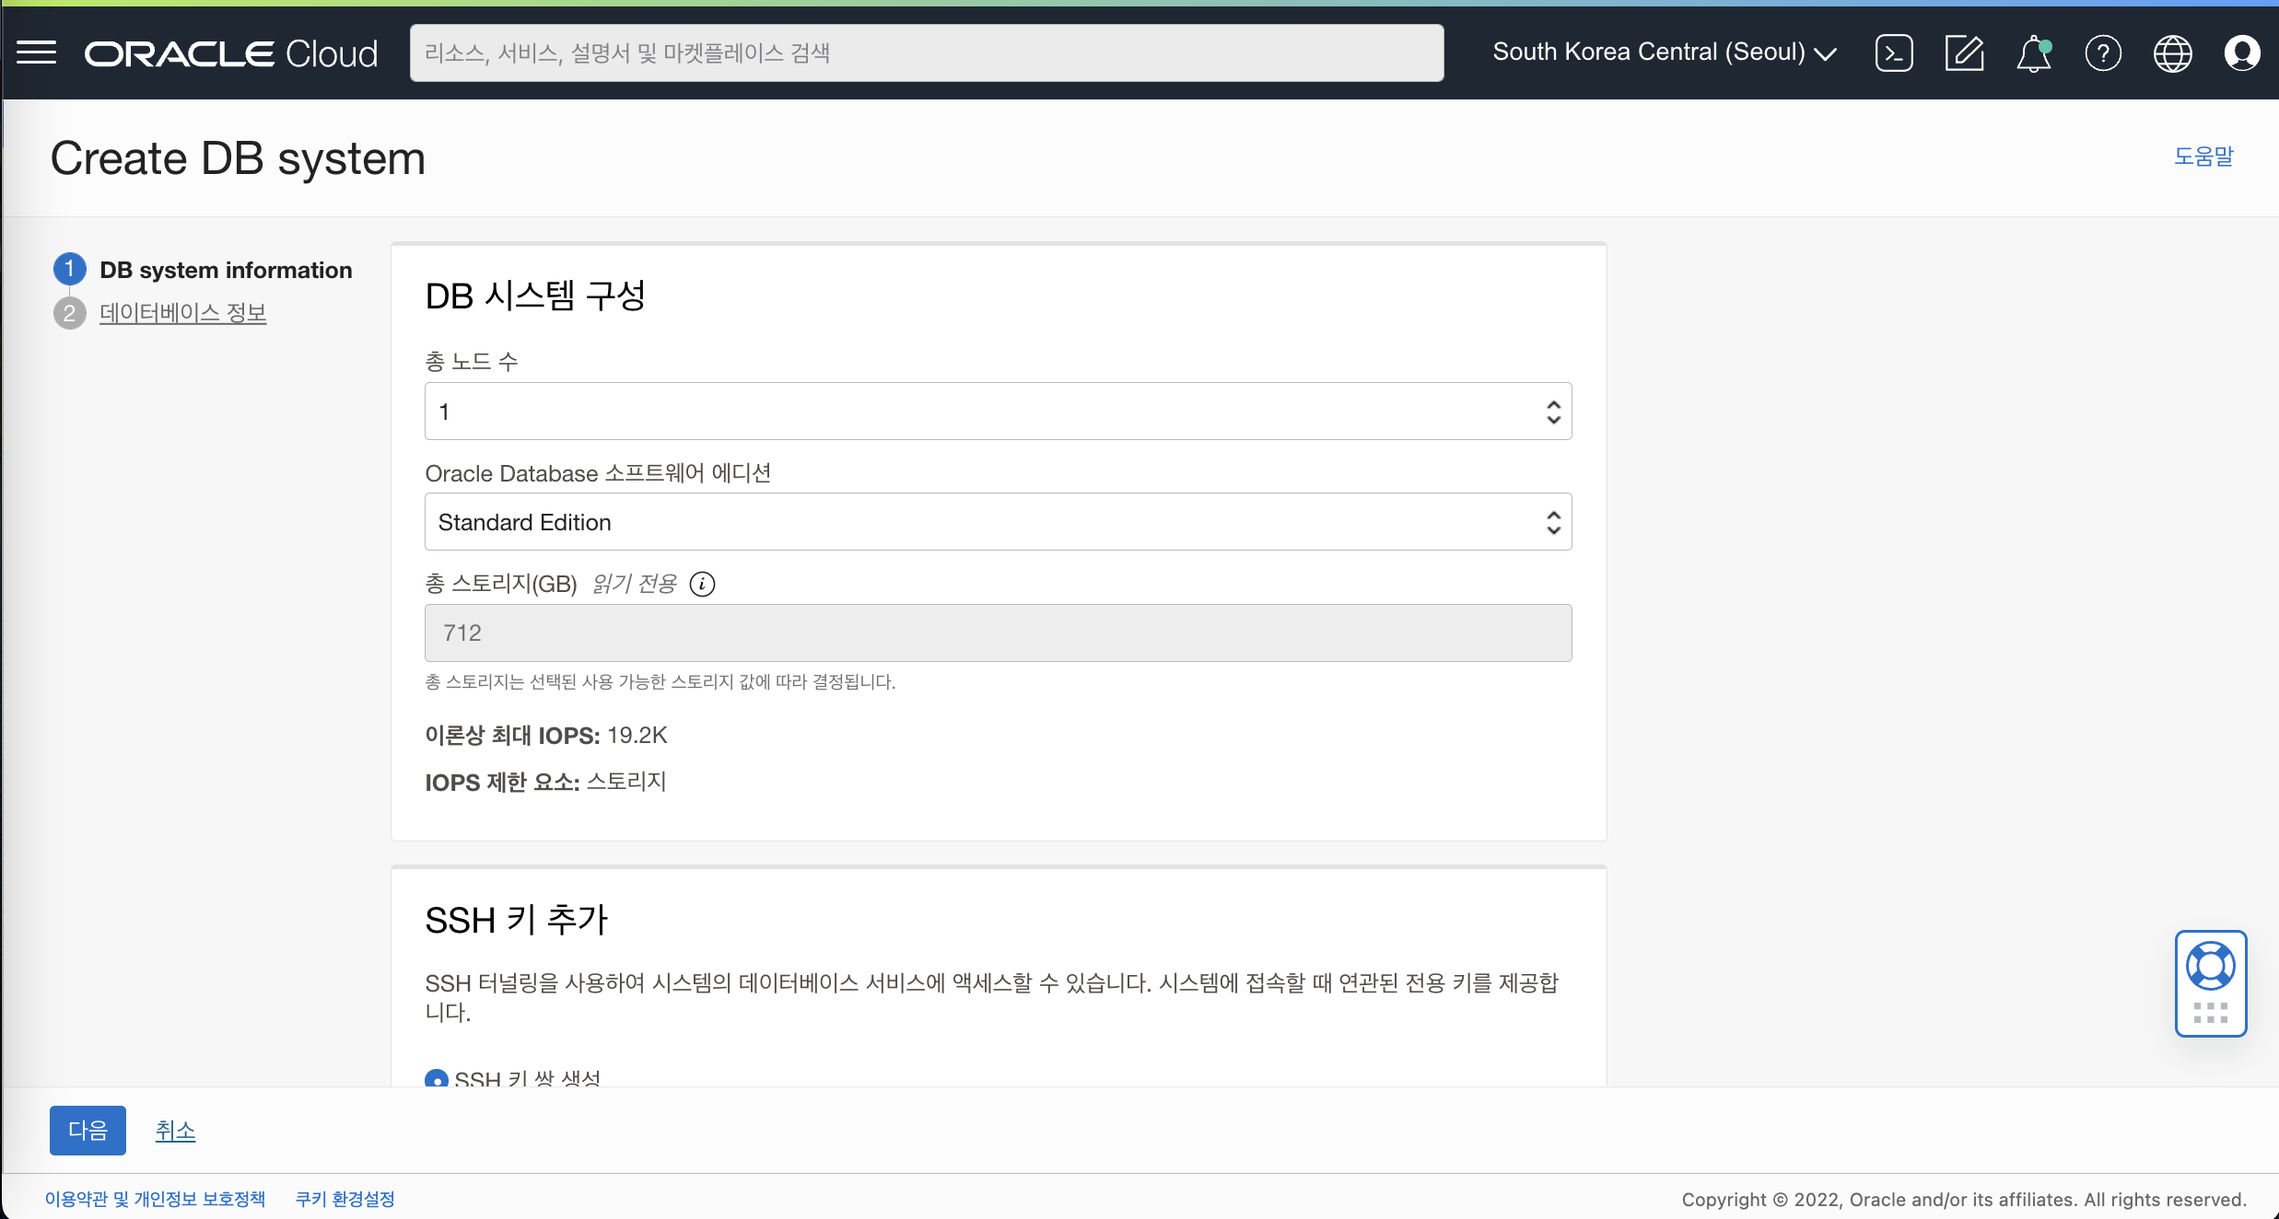
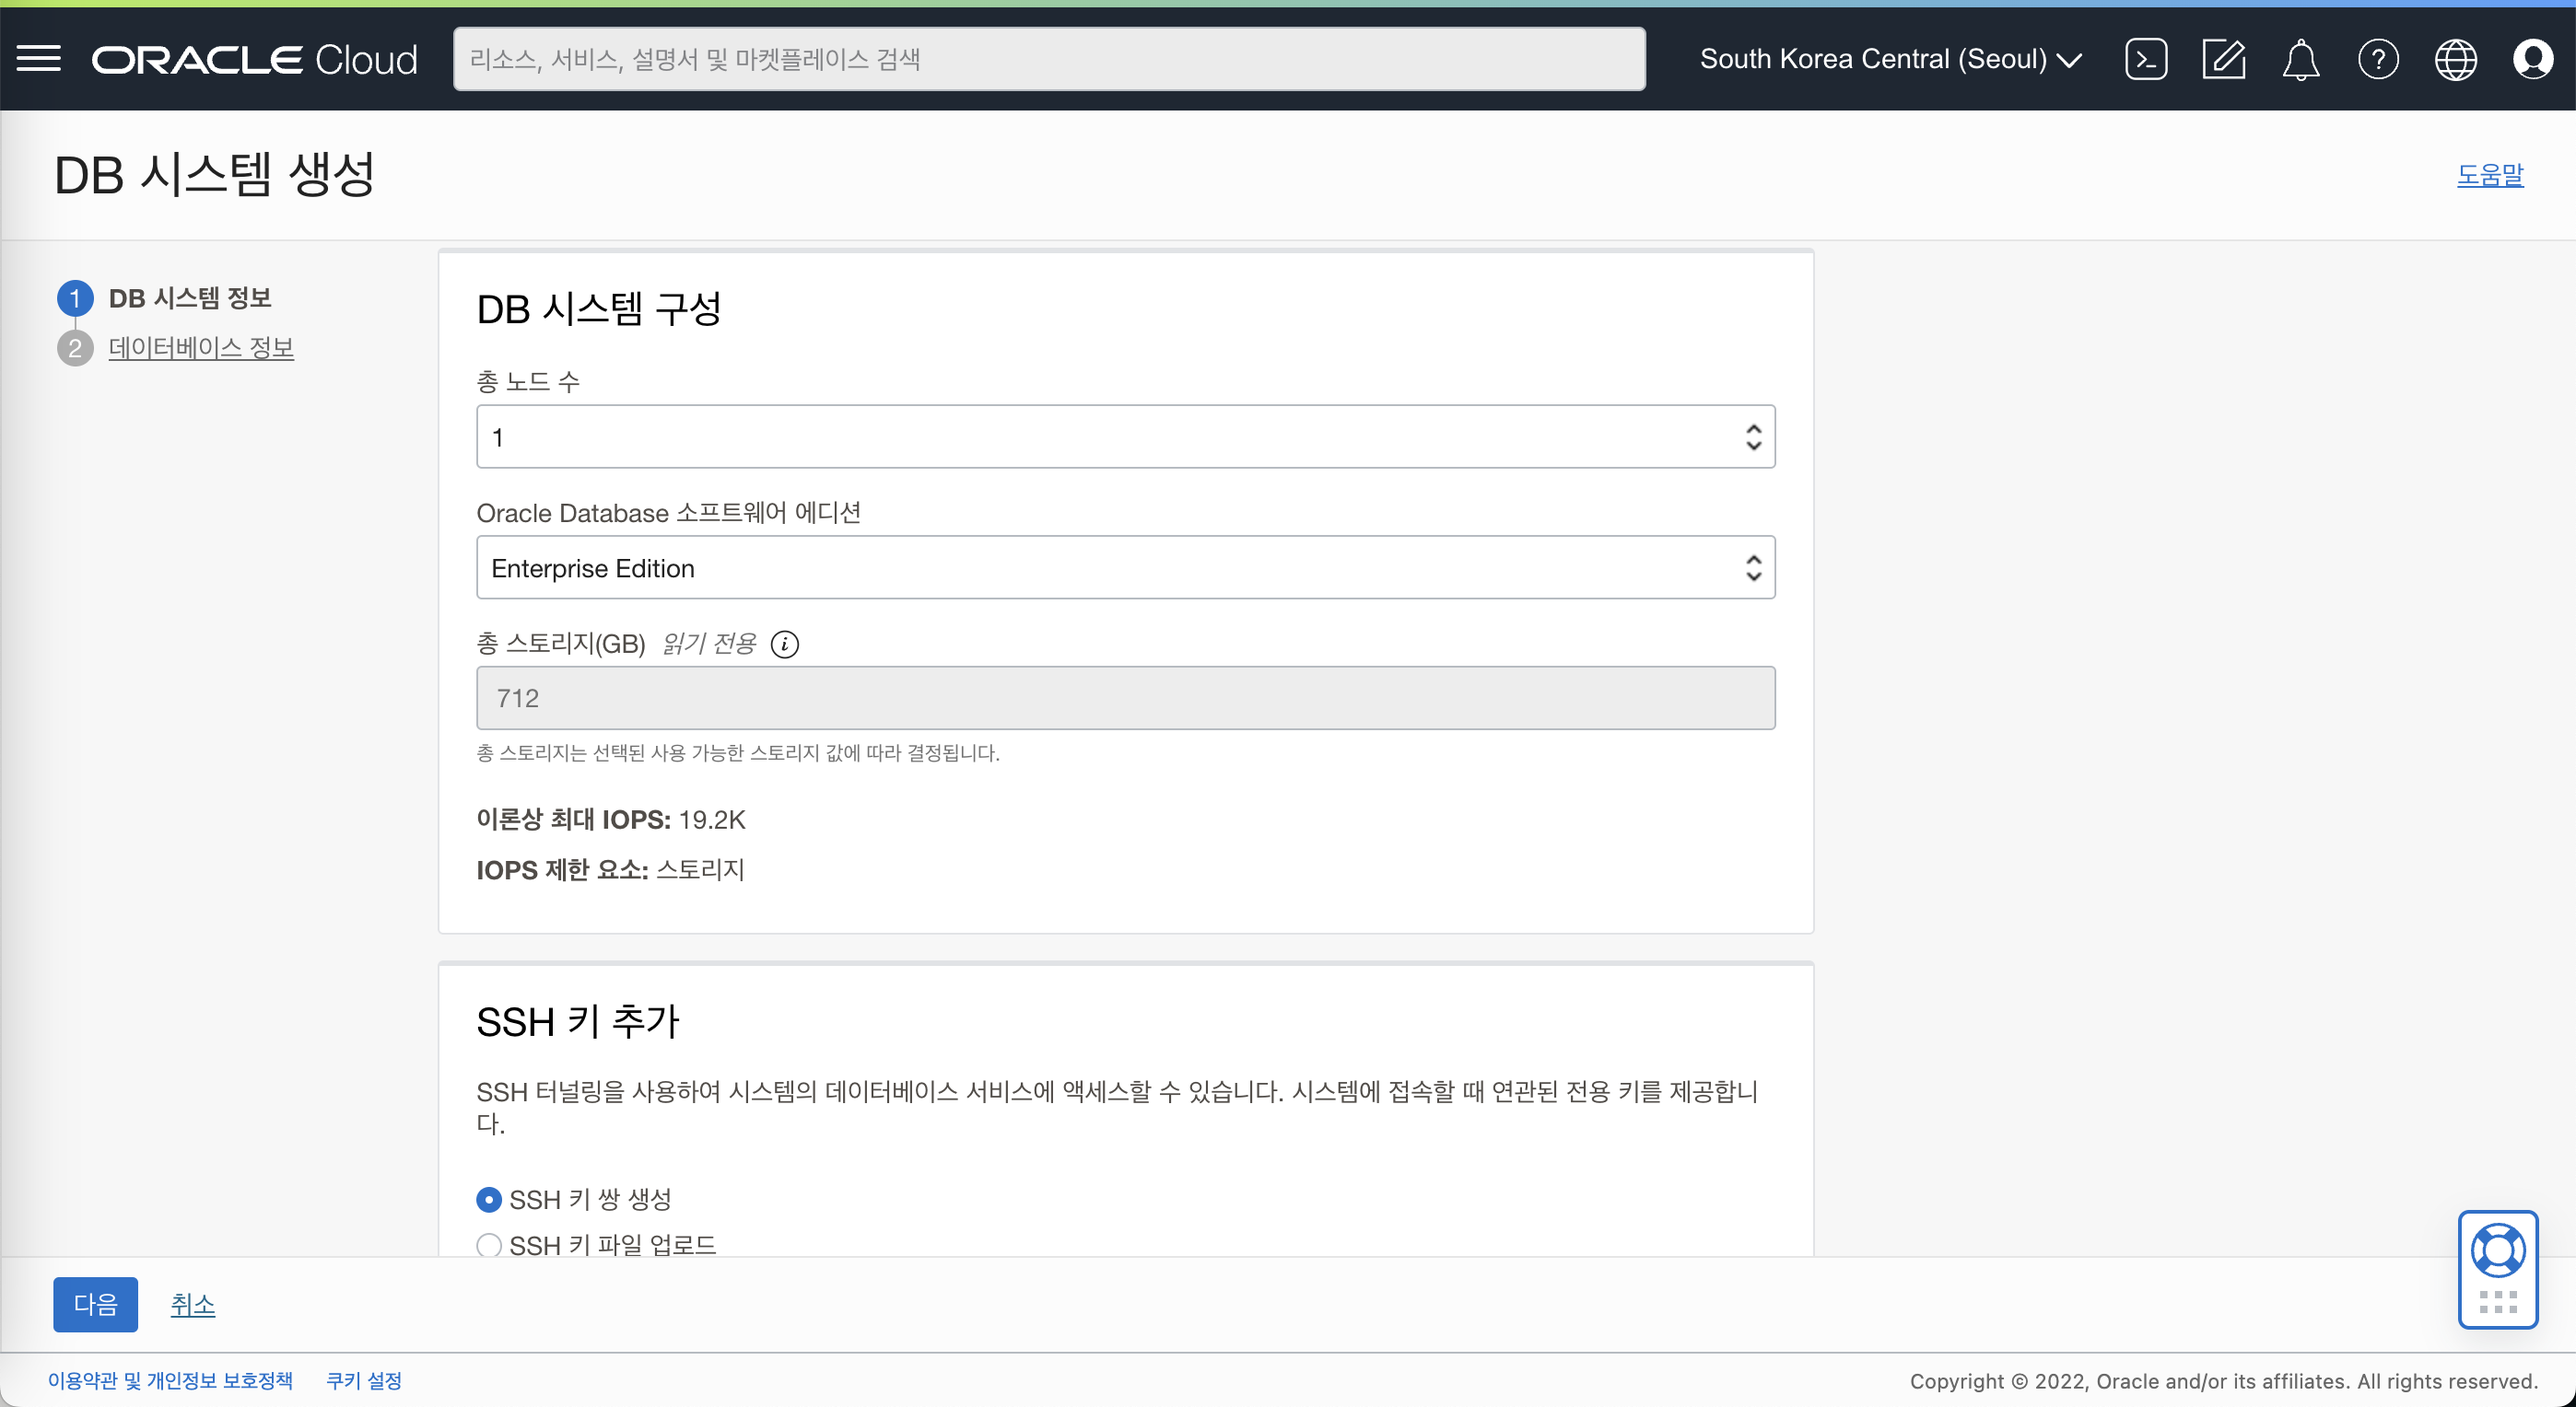
2022-11-16 18:36:36

diff --git a/learning-library/oci-library/oci-basic-compute/livelabs/labs/prerequisites/prerequisites.md b/learning-library/oci-library/oci-basic-compute/livelabs/labs/prerequisites/prerequisites.md
@@ -39,7 +39,7 @@
 2. 이동한 화면에서 "구획 생성" 버튼을 클릭합니다.
    ![Compartment Screen](images/oci-compartment-create-1.png " ")
 3. 다음과 같이 입력하여 실습 구획을 생성합니다.
-   - Name: Enter **oci-basic**
+   - Name: Enter **oci-basic-[이니셜]** / 예시) oci-basic-yhcho
    - Description: **OCI Basic 핸즈온 진행을 위한 구획입니다.**
    - Parent Compartment: **루트 구획 또는 특정 구획 선택**
    - **구획 생성(Create Compartment)** 클릭
@@ -63,7 +63,7 @@
    ![Compartment Screen](images/oci-vcn-create-2.png " ")
 
 1. 다음과 같이 입력:
-      - VCN Name: Enter **vcn-oci-basic**
+      - VCN Name: Enter **vcn-oci-basic-[이니셜]** / 예시) vcn-oci-basic-yhcho
       - VCN CIDR Block: **10.0.0.0/16** (기본값)
       - Public Subnet CIDR Block: **10.0.0.0/24** (기본값)
       - Private Subnet CIDR Block: **10.0.1.0/24** (기본값)
@@ -76,7 +76,7 @@
    ![VCN Create Review Screen](images/oci-vcn-create-4.png " ")
    ![VCN Create Complete Screen](images/oci-vcn-create-5.png " ")
 
-### Oracle Database (DBCS) 생성
+### Oracle Database (DBCS) 생성 (옵션)
 
 1. 좌측 상단의 **햄버거 아이콘**을 클릭하고, **Oracle Database**을 선택한 후 **Oracle 기본 위치 데이터베이스(VM,BM)**를 클릭합니다.
 
@@ -109,7 +109,7 @@
 6. 스토리지 구성 설정은 변경하지 않습니다.
 7. DB 시스템 구성에 아래와 같이 입력 및 선택 합니다.
    - 총 노드 수: **1**
-   - Oracle Database 소프트웨어 에디션: **Standard Edition**
+   - Oracle Database 소프트웨어 에디션: **Enterprise Edition**
 
    ![Oracle DBCS Create #6](images/oci-dbcs-create-6.png " ")
 
